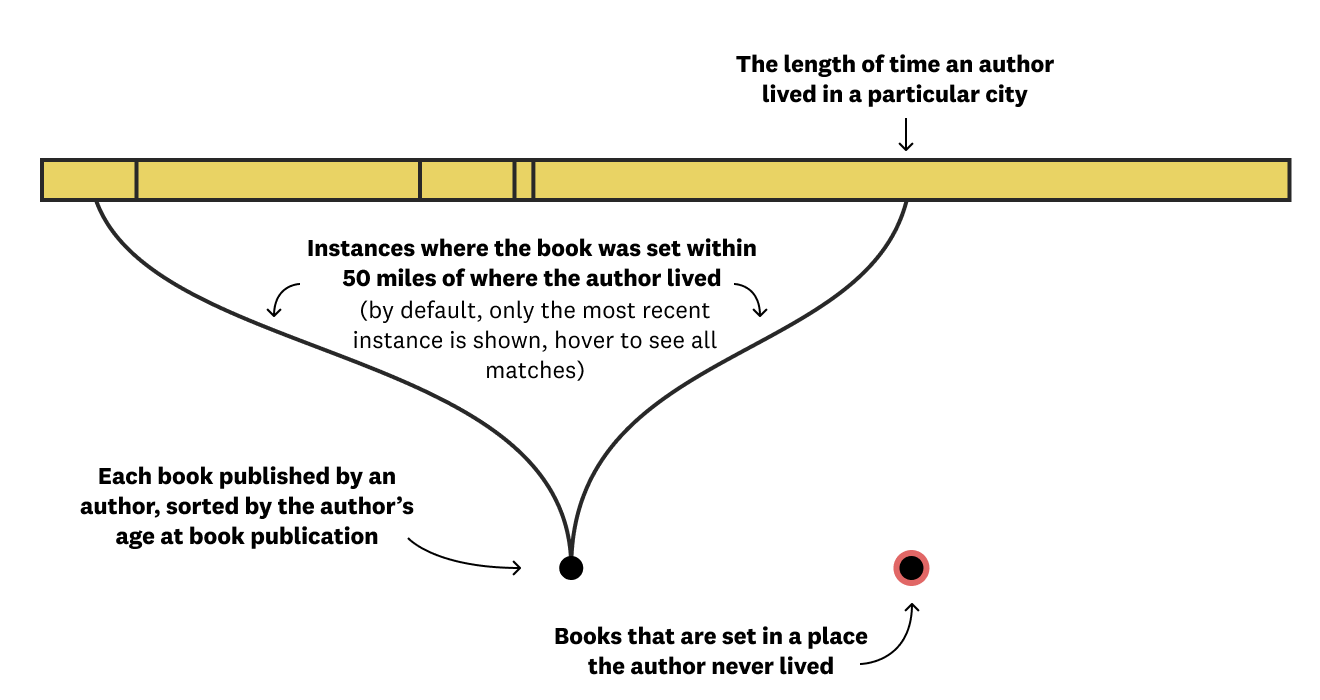
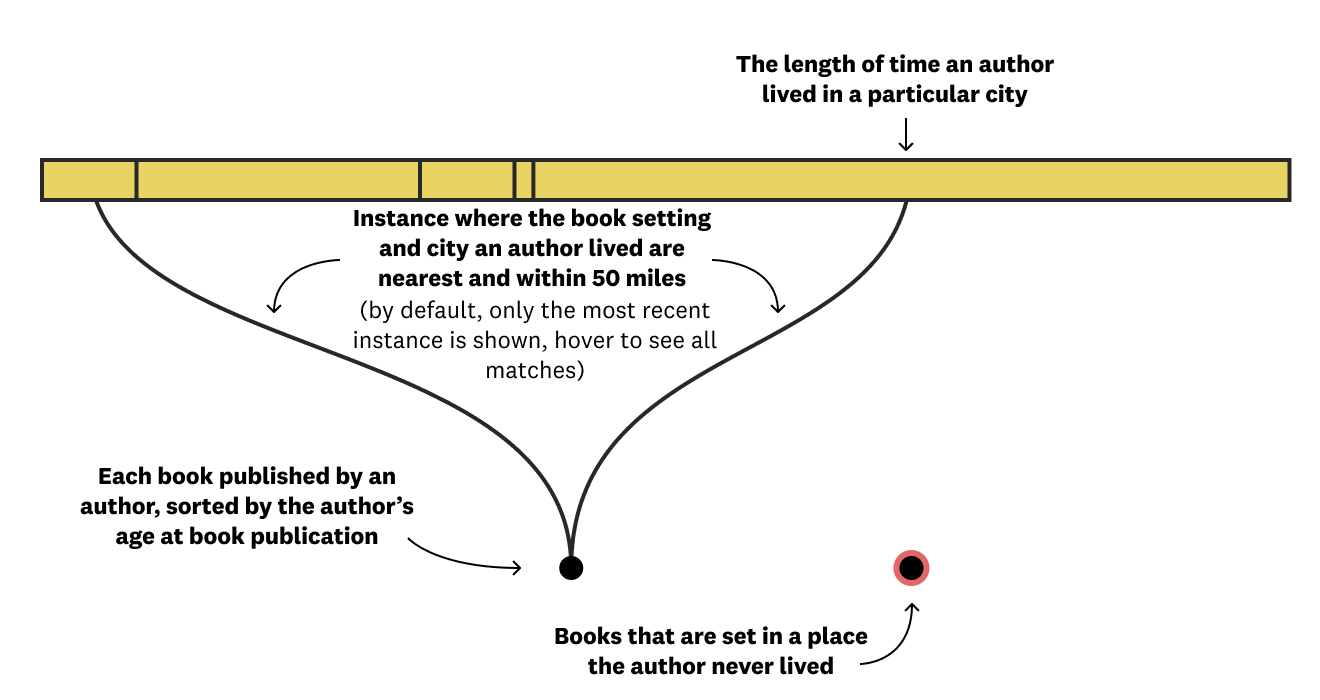
fixing tooltips and legends in timeline section

Changed region(s): [[0.2174, 0.3, 0.5902, 0.45], [0.1864, 0.42, 0.2174, 0.45]]

diff --git a/src/js/pudding-chart/timeline.js b/src/js/pudding-chart/timeline.js
@@ -13,6 +13,7 @@ d3.selection.prototype.puddingChartTimeline = function init(options) {
     const $sel = d3.select(el);
     const $parent = d3.select(el.parentNode);
     const $tooltip = $parent.select('[data-js="figure__tooltip"]');
+    const $prompt = $parent.select('[data-js="figure__prompt"]');
     let data = $sel.datum();
 
     const authorLocations = data.filteredAuthors[0].values;
@@ -54,6 +55,7 @@ d3.selection.prototype.puddingChartTimeline = function init(options) {
     function handleBookHover(d) {
       handleMouseOut();
       $tooltip.classed('is-hidden', false);
+      $prompt.classed('is-hidden', true);
       const allBooks = $sel.selectAll('.book');
 
       const hovered = allBooks
@@ -166,6 +168,7 @@ d3.selection.prototype.puddingChartTimeline = function init(options) {
     }
 
     function handleMouseOut() {
+      $prompt.classed('is-hidden', false);
       $tooltip.classed('is-hidden', true);
       $sel
         .selectAll('.connection__lived')
@@ -326,11 +329,11 @@ d3.selection.prototype.puddingChartTimeline = function init(options) {
           .call(
             vertical
               ? d3
-                  .axisLeft(scaleY)
-                  .tickFormat((d, i) => (i === 0 ? `${d} years old` : d))
+                .axisLeft(scaleY)
+                .tickFormat((d, i) => (i === 0 ? `${d} years old` : d))
               : d3
-                  .axisTop(scaleX)
-                  .tickFormat((d, i) => (i === 0 ? `${d} years old` : d))
+                .axisTop(scaleX)
+                .tickFormat((d, i) => (i === 0 ? `${d} years old` : d))
           );
 
         $axes
@@ -342,11 +345,11 @@ d3.selection.prototype.puddingChartTimeline = function init(options) {
           .call(
             vertical
               ? d3
-                  .axisRight(scaleY)
-                  .tickFormat((d, i) => (i === 0 ? `${d} years old` : d))
+                .axisRight(scaleY)
+                .tickFormat((d, i) => (i === 0 ? `${d} years old` : d))
               : d3
-                  .axisBottom(scaleX)
-                  .tickFormat((d, i) => (i === 0 ? `${d} years old` : d))
+                .axisBottom(scaleX)
+                .tickFormat((d, i) => (i === 0 ? `${d} years old` : d))
           );
 
         return Chart;

diff --git a/src/js/graphic-timeline.js b/src/js/graphic-timeline.js
@@ -70,6 +70,8 @@ function cleanAuthors(data) {
 
   birthYearMap = new Map(born);
 
+  console.log({ born, data });
+
   const clean = data
     .map((d, i) => ({
       ...d,
